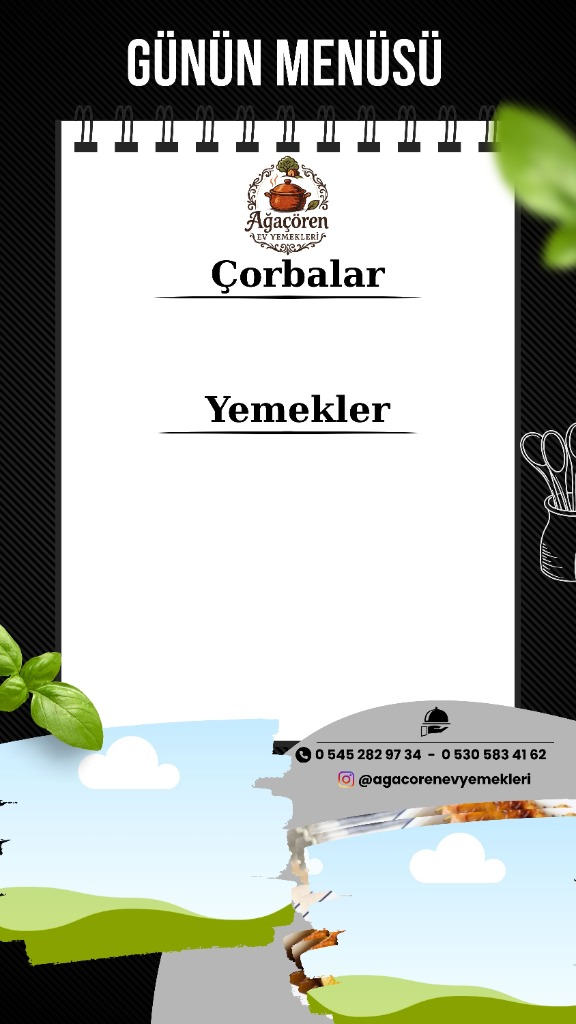
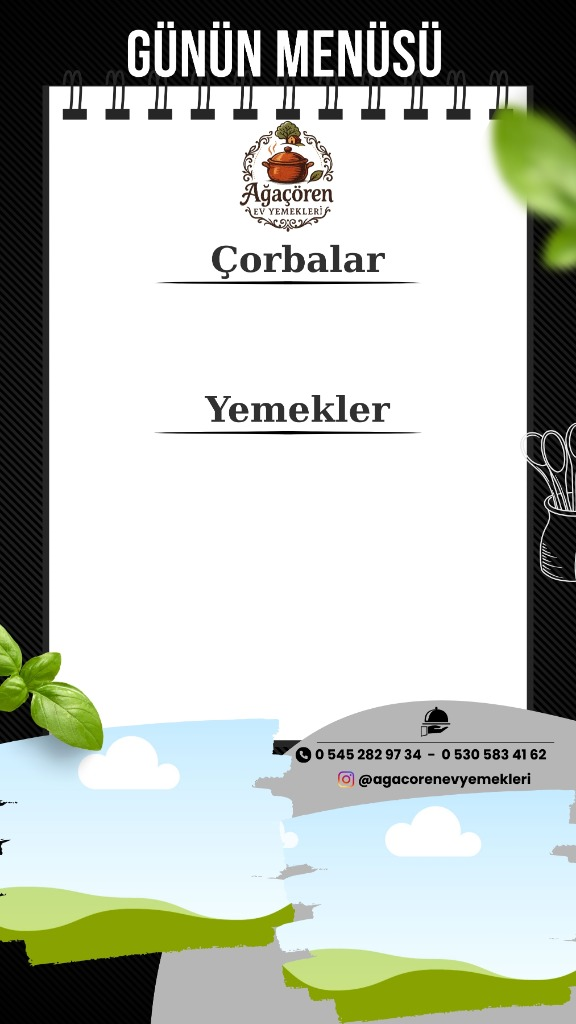
Menu v1.4

diff --git a/js/modules/admin.js b/js/modules/admin.js
@@ -76,11 +76,18 @@ function renderAdminUsers(users) {
     const name = u.display_name || u.username || 'İsimsiz';
     const email = u.email || 'E-posta yok';
     const initial = name.charAt(0).toUpperCase();
-    
     // Son görülme tarihi formatlama
-    const dateStr = u.updated_at 
-      ? new Date(u.updated_at).toLocaleDateString('tr-TR', { day: 'numeric', month: 'short', hour: '2-digit', minute: '2-digit' }) 
-      : 'Belirsiz';
+    let dateStr = 'Belirsiz';
+    if (u.last_seen) {
+      const diffSec = Math.floor((new Date() - new Date(u.last_seen)) / 1000);
+      if (diffSec < 90) {
+        dateStr = '<span style="color:#4ade80;">Çevrimiçi</span>';
+      } else if (diffSec < 3600) {
+        dateStr = `${Math.floor(diffSec / 60)} dk önce`;
+      } else {
+        dateStr = new Date(u.last_seen).toLocaleDateString('tr-TR', { day: 'numeric', month: 'short', hour: '2-digit', minute: '2-digit' });
+      }
+    }
 
     // Avatar
     const avatarHtml = u.avatar_url 

diff --git a/js/modules/menu.js b/js/modules/menu.js
@@ -827,12 +827,6 @@ const MenuModule = (() => {
         ctx.fillStyle = '#2e1b0e';
         ctx.font = `bold ${Math.min(22, 600 / item.name.length * 2.2)}px 'Georgia', serif`;
         ctx.fillText(item.name, canvas.width / 2, yPos);
-        if (item.price) {
-          ctx.fillStyle = '#c2410c';
-          ctx.font = 'bold 16px sans-serif';
-          ctx.fillText(`${item.price} ₺`, canvas.width / 2, yPos + lineH - 8);
-          yPos += lineH + 8;
-        }
         yPos += lineH;
       });
 
@@ -842,12 +836,6 @@ const MenuModule = (() => {
         ctx.fillStyle = '#2e1b0e';
         ctx.font = `bold ${Math.min(22, 600 / item.name.length * 2.2)}px 'Georgia', serif`;
         ctx.fillText(item.name, canvas.width / 2, yPos);
-        if (item.price) {
-          ctx.fillStyle = '#c2410c';
-          ctx.font = 'bold 16px sans-serif';
-          ctx.fillText(`${item.price} ₺`, canvas.width / 2, yPos + lineH - 8);
-          yPos += lineH + 8;
-        }
         yPos += lineH;
       });
 